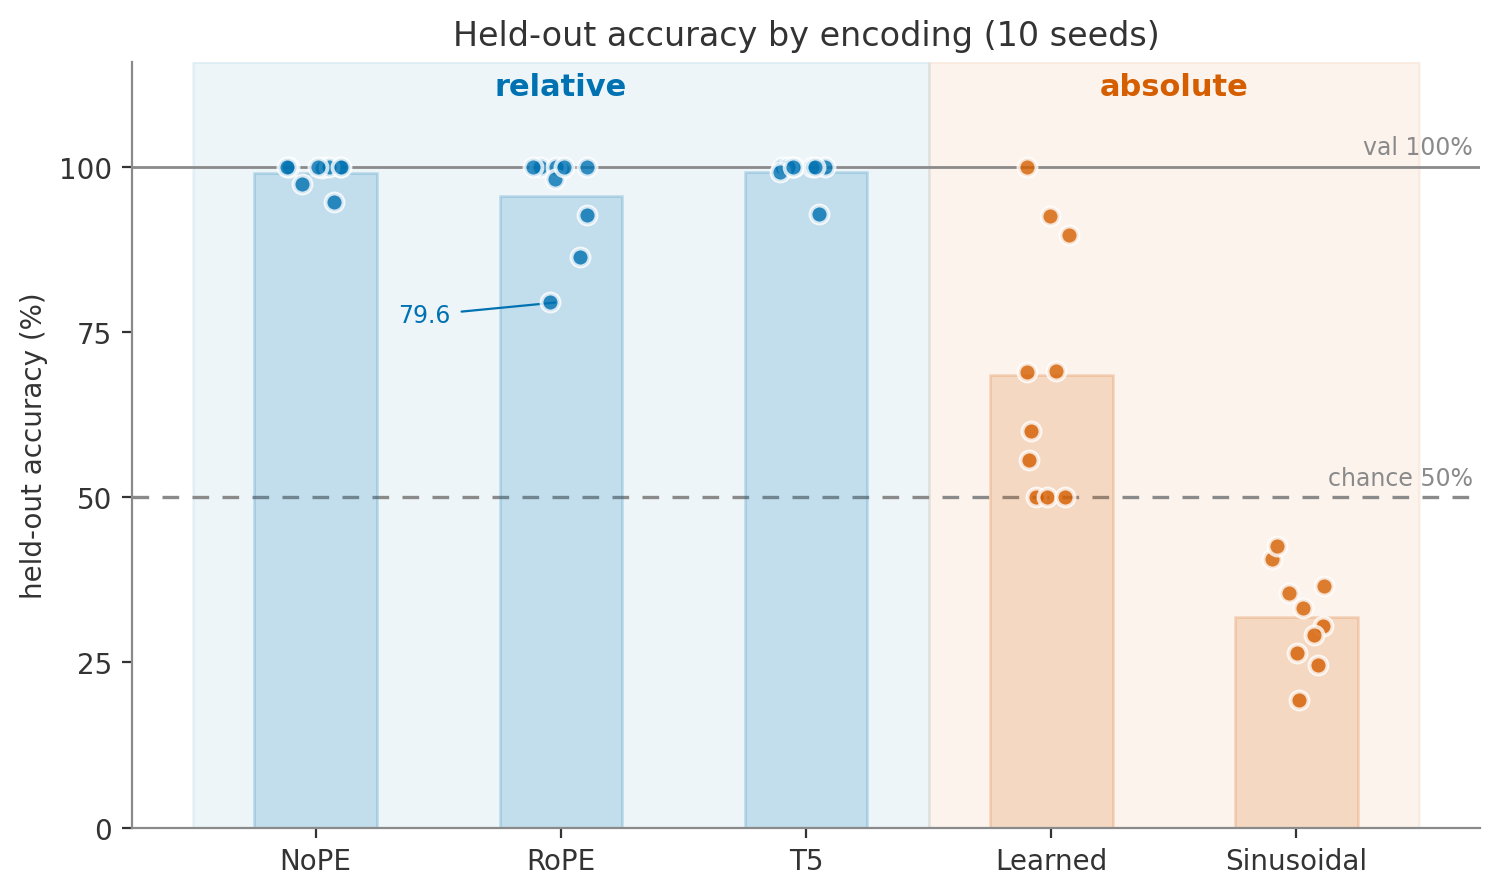
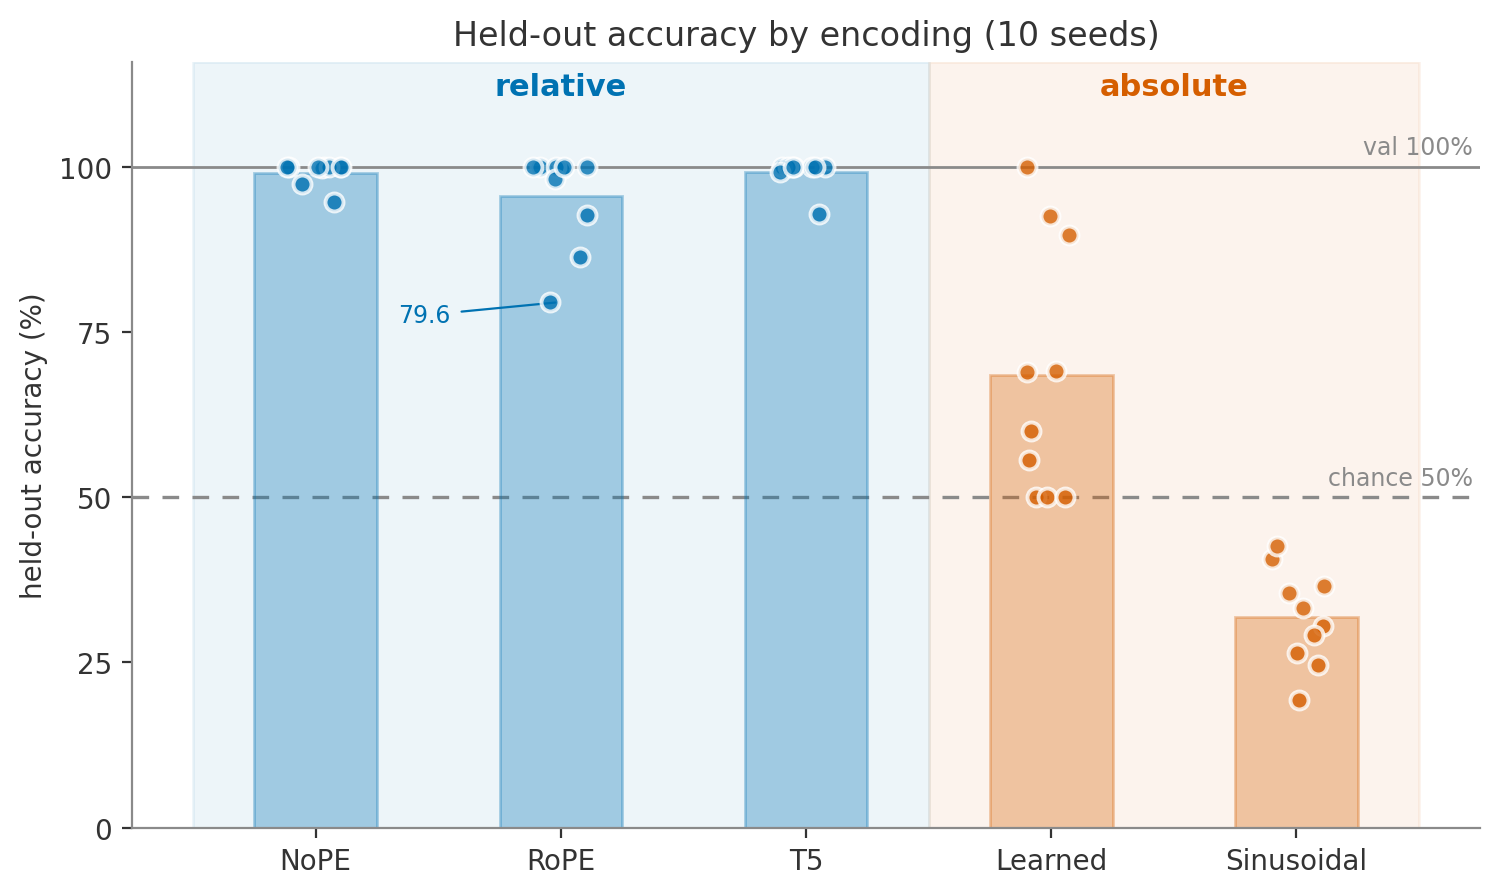
figures: darken the held-out bar fills for stronger family contrast
alpha 0.18 -> 0.32 on the mean bars so the relative (blue) / absolute (orange)
split reads clearly; the seed dots stay on top (higher alpha + white ring), so
the distribution is still the focus. Aligns with the dataviz bar-fill guidance
(bars carry the series colour; a near-invisible wash under-reads).

diff --git a/generalization-order/plot_multiseed.py b/generalization-order/plot_multiseed.py
@@ -103,7 +103,7 @@ def make(kind):
         v = np.array(held[pe])
         c = FAM_COLOR[FAMILY[pe]]
         if kind == 'bar':
-            ax.bar(x, v.mean(), width=0.5, color=c, alpha=0.18, zorder=2,
+            ax.bar(x, v.mean(), width=0.5, color=c, alpha=0.32, zorder=2,
                    edgecolor=c, linewidth=1.0)
         else:  # strip: mean line
             ax.hlines(v.mean(), x - 0.26, x + 0.26, color=c, lw=2.8, zorder=3)
